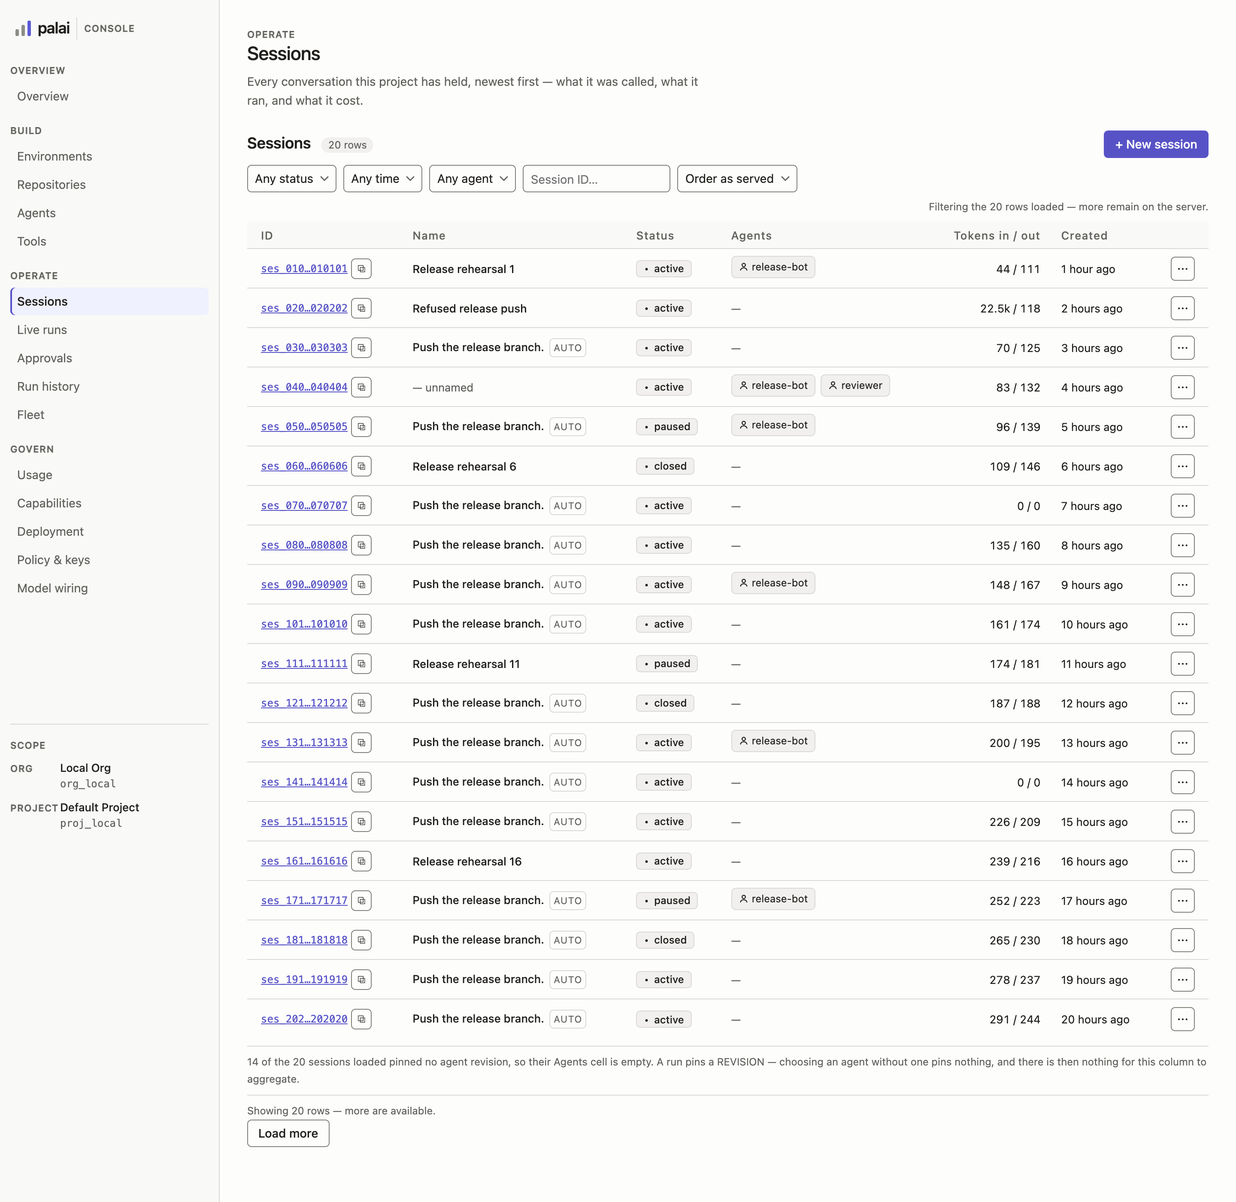
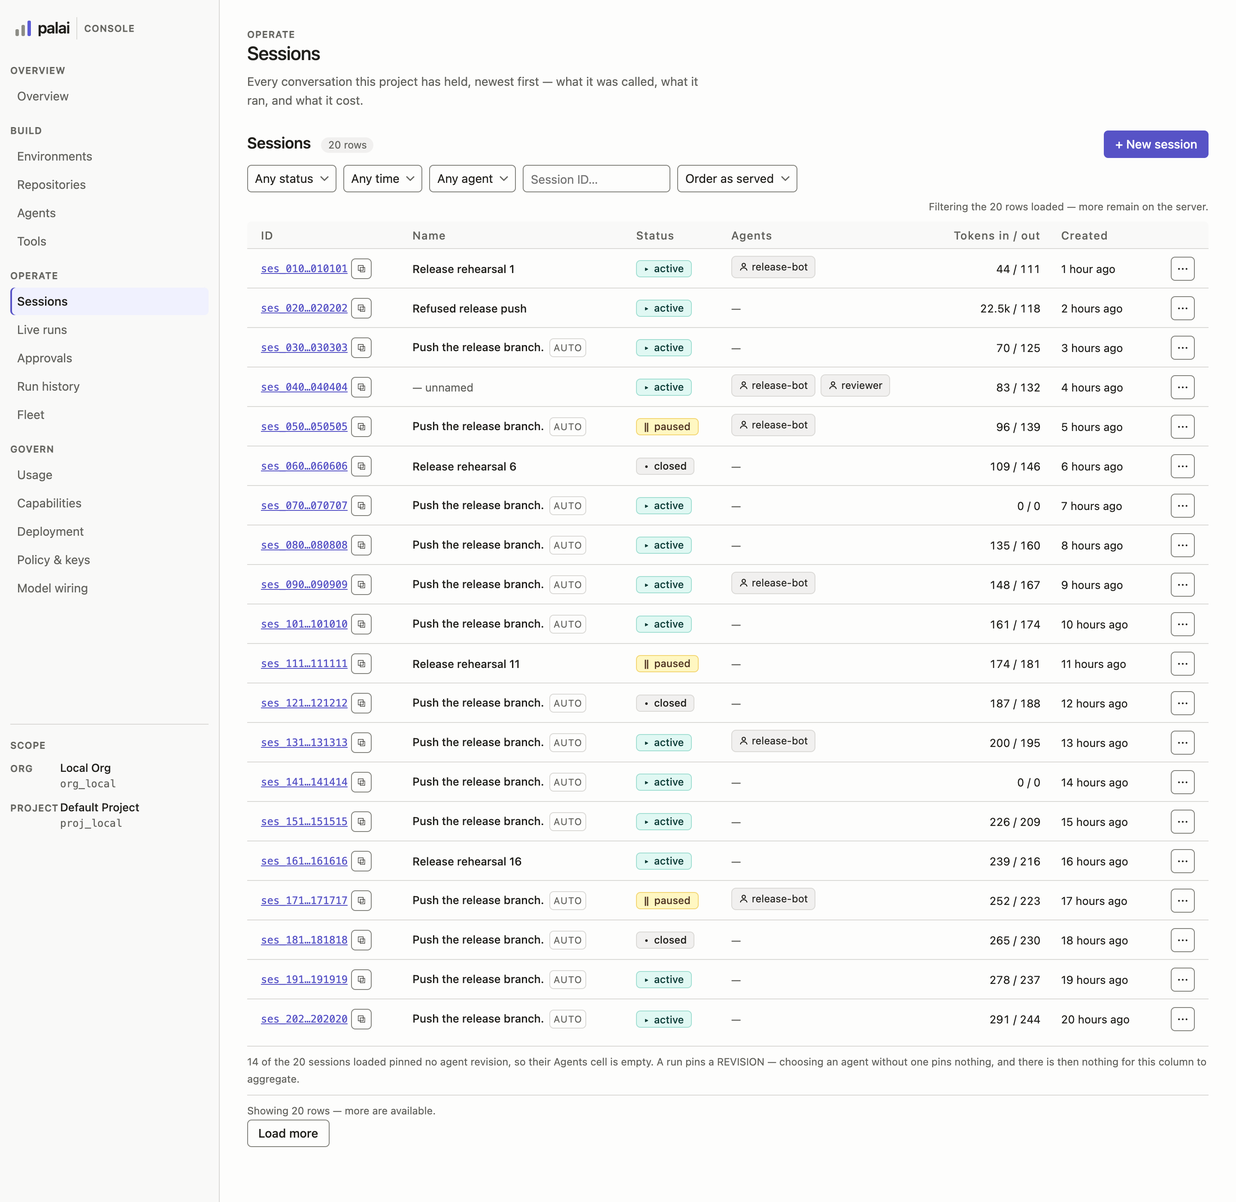
feat(console): the sixth status band, and the reference has no hue to copy for it
Three follow-ups from the parity merge.

**THE SIXTH BAND.** `active`, `running`, `provisioning` and `queued` matched
nothing in classify() and fell through to `neutral`, so on a list where nineteen
of twenty sessions are active the one column that says what a session is DOING
was twenty identical grey pills. This also carries the two arms that were waiting
uncommitted in the lead's worktree — `revoked` → danger, `pause`/`hold` → warn
with `‖` — verbatim, so the classifier lands complete rather than in two halves.

**THE HUE COULD NOT BE TAKEN FROM THE REFERENCE, AND THAT IS A MEASUREMENT.**
The instruction was to match it the way the grey was matched. design-reference/
answers it and not the way the question assumed: it records exactly FOUR
chromatic families — violet-450 (247.6°), red-450 (0°), green-450 (120°),
brand-clay (14.8°) — and the only colour it records for a pill at all is its
SURFACE, `rgba(255,255,255,0.05)`, which is a neutral. The reference gives a
running state NO hue, so there is nothing to copy; and none of its four families
is unclaimed either — violet is the accent slot (ours is iris, and a status band
wearing the link and focus colour would make a running session look like a
control), red is danger, green is ok, and clay is the brand colour the brief says
to substitute ours for.

So the hue is ours, on one criterion: distance from the bands it shares a column
with. Taken: red 0 · amber 46 · grass 131 · blue 206 · iris 240. TEAL at 172 sits
[…]

diff --git a/apps/web-console/app/globals.css b/apps/web-console/app/globals.css
@@ -109,6 +109,28 @@
   --_grass-6: 124.186 38.7387% 78.2353%; /* #b2ddb5 */
   --_grass-11: 132.1429 50% 32.9412%; /* #2a7e3b */
   --_grass-12: 130.7143 30.4348% 18.0392%; /* #203c25 */
+  /* --- TEAL IS THE SIXTH BAND'S HUE, AND THE MEASUREMENT THAT PICKED IT IS A NEGATIVE ONE (E31).
+     The instruction was "take the hue from the reference". design-reference/ answers it, and not the way the
+     question assumed: the reference's raw palette names exactly FOUR chromatic families —
+     `--_violet-450` (247.6°), `--_red-450` (0°), `--_green-450` (120°) and `--_brand-clay` (14.8°) — and the
+     only colour it records for a pill at all is its SURFACE, `rgba(255,255,255,0.05)`. That is a neutral.
+     **The reference does not give a running state a hue**, so there is no value to copy, and its four
+     families offer nothing unclaimed either: violet is the accent slot (ours is iris, and a status band
+     wearing the link colour would make a running session look like a control), red is `danger`, green is
+     `ok`, and clay is the brand colour the brief says to substitute ours for.
+
+     So the hue is ours, and it is chosen on ONE criterion: distance from the bands it shares a column with.
+     Taken: red 0° · amber 46° · grass 131° · blue 206° · iris 240°. Teal at 172° sits 41° from grass and 34°
+     from blue, which are the two it must never be confused with — `ok` ("this finished") and `info`
+     ("this is waiting") are the readings a running pill is next to in the Status column. Cyan was the
+     obvious pick and is REJECTED for exactly that reason: at 190° it is 16° from `info`'s blue, and
+     "waiting" against "running" is the one adjacency an operator cannot afford in this column.
+
+     Every pair is measured in both schemes by `node scripts/measure-contrast.mjs`. --- */
+  --_teal-3: 167.5 63.1579% 92.549%; /* #e0f8f3 */
+  --_teal-6: 168.1967 48.0315% 75.098%; /* #a1ded2 */
+  --_teal-11: 171.8797 100% 26.0784%; /* #008573 */
+  --_teal-12: 173.75 64.8649% 14.5098%; /* #0d3d38 */
   --_amber-3: 52.1311 100% 88.0392%; /* #fff7c2 */
   --_amber-6: 46.4063 84.2105% 70.1961%; /* #f3d673 */
   --_amber-12: 24 39.823% 22.1569%; /* #4f3422 */
@@ -182,6 +204,15 @@
   --info-bg: hsl(var(--_blue-3));
   --info-border: hsl(var(--_blue-6));
   --info-text: hsl(var(--_blue-12));
+  /* THE SIXTH BAND. `active`, `running`, `provisioning` and `queued` matched nothing in
+     components/Status.tsx's classifier and fell through to `neutral`, so on a list where nineteen of twenty
+     sessions are ACTIVE the one column that says what a session is DOING was twenty identical grey pills —
+     a signal shipped, rendered, and carrying no information, which is this console's own recurring defect
+     surviving because grey is not wrong, it is merely silent. See --_teal-3 for why the hue is teal and why
+     it could not be taken from the reference. */
+  --live-bg: hsl(var(--_teal-3));
+  --live-border: hsl(var(--_teal-6));
+  --live-text: hsl(var(--_teal-12));
   --neutral-bg: hsl(var(--_sand-3));
   --neutral-border: hsl(var(--_sand-6));
   --neutral-text: hsl(var(--_sand-12));
@@ -369,6 +400,10 @@
     --_grass-6: 132.8571 31.8182% 25.8824%; /* #2d5736 */
     --_grass-11: 131.3684 50.2646% 62.9412%; /* #71d083 */
     --_grass-12: 120 60.5263% 85.098%; /* #c2f0c2 */
+    --_teal-3: 174.375 55.1724% 11.3725%; /* #0d2d2a */
+    --_teal-6: 173.7313 62.6168% 20.9804%; /* #145750 */
+    --_teal-11: 170.0488 90.3084% 44.5098%; /* #0bd8b6 */
+    --_teal-12: 162.9851 69.0722% 80.9804%; /* #adf0dd */
     --_amber-3: 36 71.4286% 10.9804%; /* #302008 */
     --_amber-6: 38.6207 89.6907% 19.0196%; /* #5c3d05 */
     --_amber-12: 41.0526 100% 85.098%; /* #ffe7b3 */
@@ -1520,6 +1555,14 @@ form > p:last-of-type {
   border-color: var(--warn-border);
   color: var(--warn-text);
 }
+/* The sixth band — see --live-bg for why it exists and --_teal-3 for why it is teal. Colour is the THIRD
+   carrier here exactly as it is for the other five: `▸` and the word are what a colourblind reader and a
+   screen reader get, and removing either leaves the pill meaningless. */
+.status[data-glyph="live"] {
+  background: var(--live-bg);
+  border-color: var(--live-border);
+  color: var(--live-text);
+}
 
 /* A form refusal is TEXT with a glyph, never colour alone — the same rule .status follows. The two
    hard-coded hexes it used to carry (#b3261e / #ff7b72) are gone, and with them a SECOND dark media block
@@ -2555,4 +2598,13 @@ tbody tr[data-selected="true"] td {
 .inline-field .ui-select-trigger {
   width: auto;
   min-width: 9rem;
+}
+
+/* The standing caveat inside a sectioned form: full width under the rows, so a three-sentence operator fact
+   keeps its measure instead of being squeezed into the 224px column — or cut to fit it, which is the trade
+   components/ResourceForm.tsx's FormCaveat refuses. It rides `details.notes` (§5) for its shape and adds
+   only the spacing that puts it under the last row rather than against it. */
+.form-caveat {
+  width: min(var(--section-w), 100%);
+  margin: 0 0 var(--space-6);
 }

diff --git a/apps/web-console/components/Status.tsx b/apps/web-console/components/Status.tsx
@@ -39,14 +39,46 @@ function classify(value: string): { glyph: string; kind: BadgeTone } {
   if (v.includes("complete") || v.includes("approved") || v.includes("succeed") || v.includes("restored")) {
     return { glyph: "✔", kind: "ok" }; // heavy check, text presentation
   }
-  if (v.includes("fail") || v.includes("denied") || v.includes("error") || v.includes("lost")) {
+  // `revoked` JOINED THIS ARM AND IT USED TO BE GREY. On /policy a live key and a REVOKED one rendered in
+  // the same neutral band, so the one row that matters looked like the other nineteen. It belongs here
+  // rather than in a band of its own because a revoked credential and a failed run are the same kind of
+  // fact: this thing is over, and nothing further will come of it.
+  if (v.includes("fail") || v.includes("denied") || v.includes("error") || v.includes("lost") || v.includes("revoked")) {
     return { glyph: "✖", kind: "danger" }; // heavy multiply, text presentation
   }
   if (v.includes("wait") || v.includes("pending") || v.includes("recover") || v.includes("stream")) {
     return { glyph: "○", kind: "info" }; // open circle
   }
+  // PAUSED IS A HOLD, AND IT IS THE SAME BAND AS A CANCELLATION ON PURPOSE: both are a thing that will make
+  // no further progress until somebody does something. It was falling through to neutral, which said a
+  // paused session and a closed one are the same kind of thing. `‖` is U+2016 DOUBLE VERTICAL LINE, which
+  // carries no Unicode emoji property — the requirement the variation selectors above exist to meet, met
+  // here by picking a character that never needed one.
   if (v.includes("cancel") || v.includes("expired") || v.includes("timed")) {
     return { glyph: "⊘", kind: "warn" }; // circled slash
+  }
+  if (v.includes("pause") || v.includes("hold")) {
+    return { glyph: "‖", kind: "warn" };
+  }
+  // THE SIXTH BAND, WHICH IS WHAT THE TODO HERE ASKED FOR. `active`, `running`, `provisioning` and `queued`
+  // matched nothing above and fell through to neutral, so on a list where nineteen of twenty sessions are
+  // active the column that says what a session is DOING was twenty identical grey pills.
+  //
+  // THE HUE IS TEAL AND IT COULD NOT BE TAKEN FROM THE REFERENCE — app/globals.css's --_teal-3 carries the
+  // measurement in full, and the short form is that the reference records no hue for a running state at all
+  // (its pill's only measured colour is a NEUTRAL 5%-white surface) and none of its four chromatic families
+  // is unclaimed. Teal is 41° from `ok`'s grass and 34° from `info`'s blue, which are the two readings this
+  // pill sits beside in the same column.
+  //
+  // `▸` IS U+25B8 BLACK RIGHT-POINTING SMALL TRIANGLE, which carries no Unicode emoji property — so it needs
+  // no variation selector, the same requirement `○`, `⊘` and `•` already meet by construction.
+  //
+  // IT IS LAST, AND THAT ORDER IS A DECISION. `queued` lands here while `pending` lands in `info` one arm
+  // up, and the two words are not synonyms in this API: a RUNNER is `pending` admission, which is waiting on
+  // a human, and a RUN is `queued`, which is the machine already holding it. An ending outranks a beginning
+  // for the same reason — a word carrying both reads as finished.
+  if (v.includes("active") || v.includes("running") || v.includes("provision") || v.includes("queued") || v.includes("in_progress")) {
+    return { glyph: "▸", kind: "live" };
   }
   return { glyph: "•", kind: "neutral" }; // bullet
 }

diff --git a/apps/web-console/components/ResourceForm.tsx b/apps/web-console/components/ResourceForm.tsx
@@ -69,6 +69,27 @@ export interface FormSection {
   action?: ReactNode;
 }
 
+/**
+ * A standing caveat: the part of a note that is background rather than instruction.
+ *
+ * IT EXISTS BECAUSE THE 224px COLUMN MADE A REAL PROBLEM VISIBLE RATHER THAN CAUSING ONE. The reference's
+ * rule is one sentence per section (design-system-measured.md §5 rule 8, "Paragrafları süpür"), and several
+ * of this console's notes are three — but they are three sentences of operator-critical fact: "create and
+ * rotate are the same operation", "the value is shown once and is retrievable from nowhere afterwards". The
+ * tempting fix is to cut them to fit, and that trades a true safety statement for a layout, which is the
+ * wrong direction. So the note keeps its FIRST sentence in the column, where it says what the section is,
+ * and the rest moves here — full width, every word, under the rows.
+ *
+ * `<details>` is the shape app/globals.css already argues for (`details.notes`, "STANDING CAVEATS COLLAPSE,
+ * THE LEAD DOES NOT"): still text, still in the DOM, still keyboard-reachable, and the summary says what is
+ * inside rather than "more".
+ */
+export interface FormCaveat {
+  /** What is inside, in words. Never "More" — a summary that does not say is a summary nobody opens. */
+  summary: string;
+  body: ReactNode;
+}
+
 export interface FormField {
   /** Field name; also the source of the control's id, so the label can never be orphaned. */
   name: string;
@@ -100,6 +121,7 @@ export function ResourceForm({
   title,
   fields,
   sections,
+  caveat,
   submitLabel,
   submittingLabel,
   submitTestId,
@@ -122,6 +144,8 @@ export function ResourceForm({
    * When it is present, `title` and `note` stay where they are: the page's own heading above the rows.
    */
   sections?: FormSection[];
+  /** The background half of a long note, full width under the rows. See FormCaveat for why it is not in the column. */
+  caveat?: FormCaveat;
   submitLabel: string;
   submittingLabel?: string;
   submitTestId?: string;
@@ -218,6 +242,14 @@ export function ResourceForm({
             ))}
             {children}
           </>
+        )}
+        {/* FULL WIDTH, UNDER THE ROWS, AND BEFORE THE SUBMIT. A caveat an operator needs while filling the
+            form cannot sit below the button that ends it. */}
+        {caveat === undefined ? null : (
+          <details className="notes form-caveat">
+            <summary>{caveat.summary}</summary>
+            {caveat.body}
+          </details>
         )}
         {error === "" ? null : (
           <p role="alert" className="form-error" data-testid={testId ? `${testId}-error` : undefined}>

diff --git a/apps/web-console/app/policy/page.tsx b/apps/web-console/app/policy/page.tsx
@@ -332,18 +332,26 @@ export default function PolicyPage() {
         // collapses — and as a sibling it drifted onto the wrong form the first time the page was reordered.
         note={
           <span data-testid="policy-assignment-note">
-            {/* THE EXPLICIT SPACE IS LOAD-BEARING, and tests/rendered-copy.spec.ts is why it is written as
-                one: the same sentence lost the same space the FIRST time this note was authored, on this
-                page, and the guard added after that caught this move too. A text child that starts on the
-                line after a closing tag has its leading whitespace trimmed by the JSX transform. */}
+            {/* THE EXPLICIT SPACES ARE LOAD-BEARING, and tests/rendered-copy.spec.ts is why they are written
+                out: the same sentence lost the same space the FIRST time this note was authored, on this
+                page, and the guard added after that caught the next move too. A text child that starts on
+                the line after a closing tag has its leading whitespace trimmed by the JSX transform — which
+                is exactly the shape of edit this split is, so every boundary here is explicit. */}
             <strong>This form writes the WHOLE policy.</strong>{" "}
-            The five fields below are, after you save, the entirety of the project&apos;s{" "}
-            <code>config_policy</code> —{" "}
-            <code>PATCH /v1/projects/{"{id}"}</code> replaces the stored document rather than merging into it,
-            which is why the form reads the current policy before it shows you anything. A field you cannot
-            see is a field you did not send.
+            The five fields below are, after you save, the entirety of this project&apos;s{" "}
+            <code>config_policy</code>.
           </span>
         }
+        caveat={{
+          summary: "Why the form reads the policy first, and what a field you cannot see means",
+          body: (
+            <p className="muted">
+              <code>PATCH /v1/projects/{"{id}"}</code> replaces the stored document rather than merging into
+              it, which is why the form reads the current policy before it shows you anything. A field you
+              cannot see is a field you did not send.
+            </p>
+          ),
+        }}
         fields={[
           {
             name: "policy-allowed-models",

diff --git a/apps/web-console/app/fleet/page.tsx b/apps/web-console/app/fleet/page.tsx
@@ -974,7 +974,16 @@ export default function FleetPage() {
                           machine is APPENDED to "Admit" rather than replacing it with an aria-label. Seven
                           buttons each reading a 16-character hash is a column of noise; seven buttons all
                           reading "Admit" are indistinguishable to a screen reader. This is both. */}
-                      <Button variant="primary" testId={`admit-${id}`} onClick={() => void admit(row)}>
+                      {/* NOT `variant="primary"`, AND THE COUNT IS THE ARGUMENT (E31). Five rows in this
+                          table each carried one, and this screen already has two real primaries in its
+                          heads — `+ Create pool` and `+ Mint key`. Seven filled controls on one page is a
+                          page with no primary action at all, which is the opposite of what the weight is
+                          for. The reference puts its per-row actions in a plain control or a `⋯` menu and
+                          keeps the filled one for the head; this is that rule, applied where we broke it.
+                          Nothing about the action changed — same word, same testid, same handler, and the
+                          default button's boundary is the --border-control this suite measures at 3.80:1
+                          light / 4.14:1 dark. */}
+                      <Button testId={`admit-${id}`} onClick={() => void admit(row)}>
                         Admit
                         <span className="sr-only"> {id}</span>
                       </Button>

diff --git a/apps/web-console/app/registry/page.tsx b/apps/web-console/app/registry/page.tsx
@@ -301,13 +301,21 @@ export default function RegistryPage() {
         testId="connection-create"
         note={
           <>
-            <strong>Two things happen when you submit.</strong> The credential is sealed under the ref name
-            you give — <code>POST /v1/secret-refs</code>, write-only, versioned if the name already exists —
-            and the connection is then created NAMING that ref. The key is never stored on the connection and
-            is readable through no route. Bind the connection to a project with a model route to make runs
-            use it; until then it is configuration that nothing dispatches to.
+            <strong>Two things happen when you submit.</strong> The credential is sealed under the ref name you
+            give, and the connection is created naming that ref.
           </>
         }
+        caveat={{
+          summary: "Where the key goes, and what still has to happen before a run uses this",
+          body: (
+            <p className="muted">
+              The credential is sealed by <code>POST /v1/secret-refs</code> — write-only, versioned if the name
+              already exists — and the connection then NAMES that ref. The key is never stored on the connection
+              and is readable through no route. Bind the connection to a project with a model route to make runs
+              use it; until then it is configuration that nothing dispatches to.
+            </p>
+          ),
+        }}
         fields={[
           {
             name: "connection-provider",

diff --git a/apps/web-console/app/environments/page.tsx b/apps/web-console/app/environments/page.tsx
@@ -268,13 +268,21 @@ export default function EnvironmentsPage() {
         testId="environment-value"
         note={
           <>
-            <strong>Create and rotate are the same operation</strong> — <code>secret_refs</code> is
-            append-only, so writing a key that already exists adds a new version rather than replacing one.
-            Key names must match <code>^[A-Z][A-Z0-9_]*$</code> and may not start with <code>PALAI_</code>;
-            names the sandbox reserves (<code>PATH</code>, <code>HOME</code>, and others that depend on the
-            posture) are refused again at execution time, before any process starts.
+            <strong>Create and rotate are the same operation</strong> — writing a key that already exists adds
+            a new version rather than replacing one.
           </>
         }
+        caveat={{
+          summary: "What a key name may be, and which names the sandbox refuses",
+          body: (
+            <p className="muted">
+              <code>secret_refs</code> is append-only, which is why a write is a rotation. Key names must match{" "}
+              <code>^[A-Z][A-Z0-9_]*$</code> and may not start with <code>PALAI_</code>; names the sandbox
+              reserves (<code>PATH</code>, <code>HOME</code>, and others that depend on the posture) are refused
+              again at execution time, before any process starts.
+            </p>
+          ),
+        }}
         fields={[
           {
             name: "environment",

diff --git a/apps/web-console/components/ui/Badge.tsx b/apps/web-console/components/ui/Badge.tsx
@@ -12,7 +12,7 @@ import type { ReactNode } from "react";
 // to its glyph and its band. That mapping is domain knowledge ("restored" is an ok, "lost" is a danger), and
 // pulling it in here would make this component know about run lifecycles.
 
-export type BadgeTone = "ok" | "danger" | "info" | "warn" | "neutral";
+export type BadgeTone = "ok" | "danger" | "live" | "info" | "warn" | "neutral";
 
 export function Badge({
   tone,

diff --git a/apps/web-console/README.md b/apps/web-console/README.md
@@ -199,6 +199,51 @@ lines in a card at the top of the rail, is an unframed readout at its **foot** w
 gutter; its "empty dropdown" was never styling — `String(row.display_name ?? row.id)` keeps a `display_name`
 of `""`, because `""` is neither null nor undefined, so the fallback could not fire.
 
+### The sixth status band, and the measurement that picked its hue (E31)
+
+`active`, `running`, `provisioning` and `queued` matched nothing in `components/Status.tsx`'s classifier and
+fell through to `neutral` — so on a list where nineteen of twenty sessions are active, the one column that
+says what a session is *doing* was twenty identical grey pills. `revoked` (→ danger) and `pause`/`hold`
+(→ warn, `‖`) were the two halves of the same defect that needed no new token; this is the third.
+
+**The hue could not be taken from the reference, and that is a measurement rather than a shrug.**
+`design-reference/` records exactly four chromatic families — `--_violet-450` (247.6°), `--_red-450` (0°),
+`--_green-450` (120°), `--_brand-clay` (14.8°) — and the only colour it records for a pill at all is its
+*surface*, `rgba(255,255,255,0.05)`, which is a **neutral**. The reference gives a running state no hue, so
+there is no value to copy; and none of its four families is unclaimed, since violet is the accent slot (ours
+is iris, and a status band wearing the link and focus colour would make a running session look like a
+control), red is `danger`, green is `ok`, and clay is the brand colour the brief says to substitute ours for.
+
+So the hue is ours, chosen on one criterion — distance from the bands it shares a column with. Taken:
+red 0° · amber 46° · grass 131° · blue 206° · iris 240°. **Teal at 172°** sits 41° from grass and 34° from
+blue, the two readings a running pill is next to: `ok` ("this finished") and `info` ("this is waiting").
+Cyan was the obvious pick and is rejected for exactly that reason — at 190° it is 16° from `info`'s blue,
+and *waiting* against *running* is the one adjacency this column cannot afford.
+
+| | word on its fill (L \| D) | body text on its fill | border on page |
+|---|---|---|---|
+| `live` (teal) | 10.85 \| 11.42 | 14.67 \| 12.68 | 1.48 \| 2.10 |
+
+`▸` is U+25B8, which carries no Unicode emoji property, so it needs no variation selector — colour is the
+third carrier here exactly as it is for the other five bands. `node scripts/measure-contrast.mjs` →
+**51 pairs, 0 under floor**.
+
+### `caveat`: the note's background half, at full measure
+
+The 224px column made a real problem visible rather than causing one. The reference's rule is one sentence
+per section; several of ours were three — but three sentences of operator-critical fact ("create and rotate
+are the same operation", "a field you cannot see is a field you did not send"). Cutting them to fit trades a
+true safety statement for a layout. `ResourceForm` now takes a `caveat`: the note keeps its first sentence in
+the column, the rest renders full-width under the rows in the `details.notes` shape this stylesheet already
+argues for. Applied to `/environments`, `/registry` and `/policy` — the three longest.
+
+### One prop off `/fleet`
+
+Five `Admit` buttons in one table each carried `variant="primary"`, on a screen that already has two real
+primaries in its heads. Seven filled controls on one page is a page with no primary action at all. Same word,
+same testid, same handler — the default button's boundary is the `--border-control` this suite measures at
+3.80:1 light / 4.14:1 dark.
+
 ## The primitive layer (`components/ui/`, E29)
 
 Everything under `components/` was a DOMAIN component until this landed — `AgentDiff`, `ApprovalPanel`,
